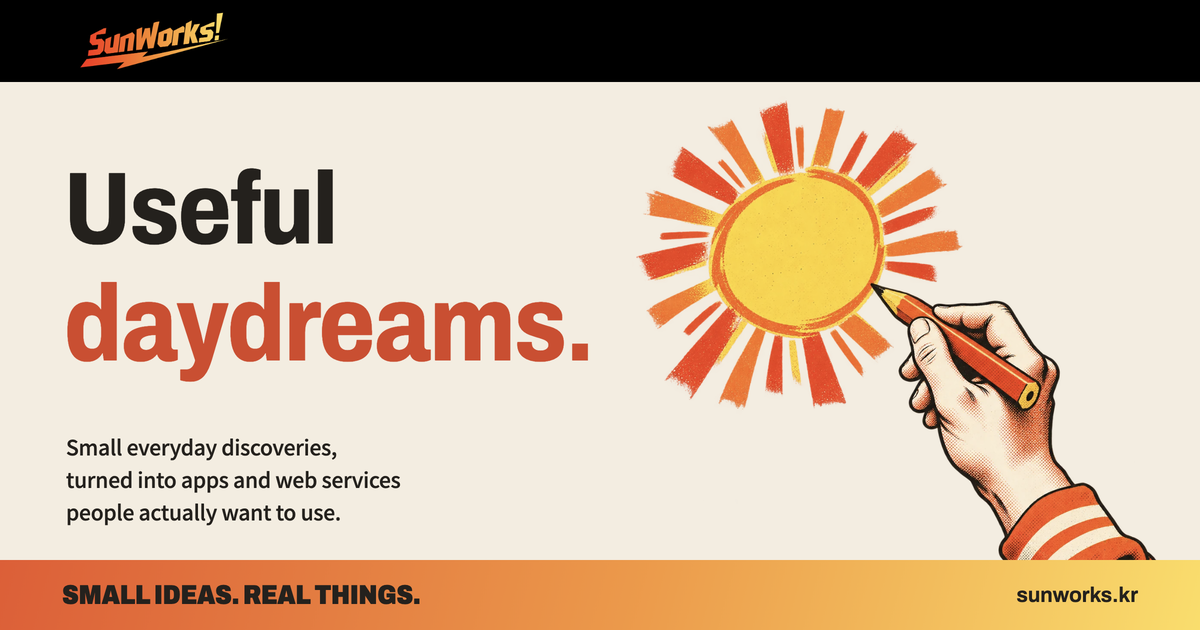
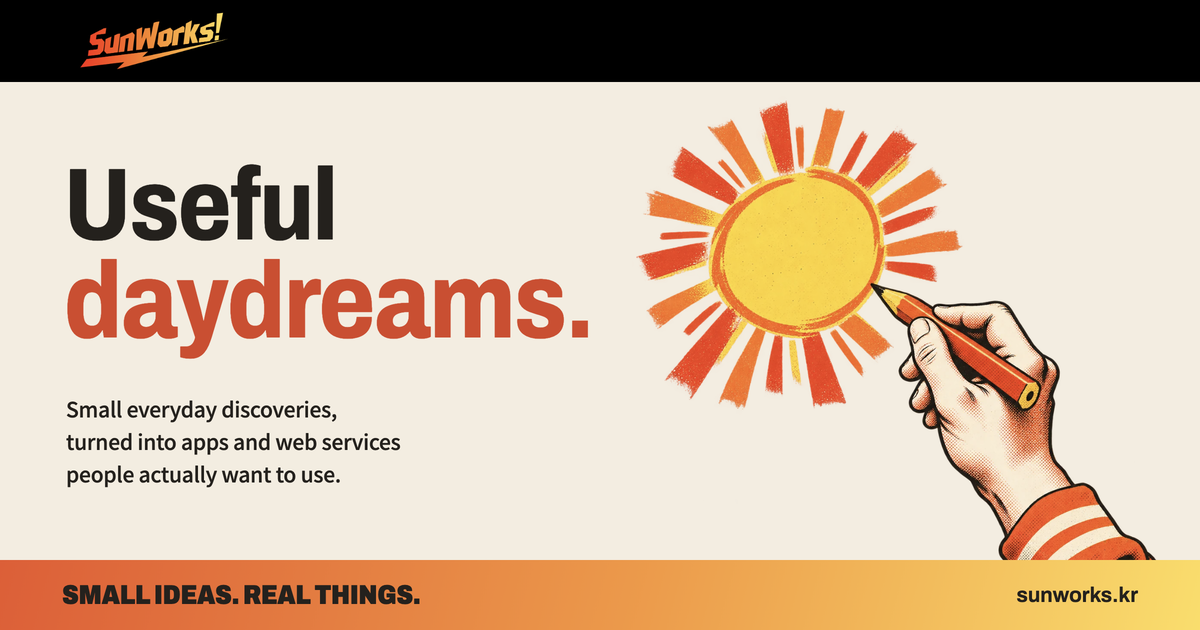
style: tighten line height of display titles
Poster titles read as loose stacks, so display line height drops in both languages.
Korean Gasoek titles go to 1.06-1.26 (from 1.16-1.4); tighter values start to let final consonants touch the next line.
English Archivo titles go to 0.9-1.0 (from 0.98-1.12).
The saved card image and both social cards use the same ratios, and DESIGN.md records the values.

diff --git a/src/styles/global.css b/src/styles/global.css
@@ -257,7 +257,7 @@ section[id] {
   font-weight: var(--display-weight);
   font-stretch: var(--display-stretch);
   letter-spacing: var(--display-tracking);
-  line-height: 1.16;
+  line-height: 1.06;
 }
 .hero h1 span {
   display: block;
@@ -266,7 +266,7 @@ section[id] {
 .hero .hero-punch {
   color: var(--red);
   font-size: 1.32em;
-  line-height: 1.19;
+  line-height: 1.08;
 }
 .hero-intro {
   padding-top: 37px;
@@ -393,7 +393,7 @@ section[id] {
   font-weight: var(--display-weight);
   font-stretch: var(--display-stretch);
   letter-spacing: var(--display-tracking);
-  line-height: 1.35;
+  line-height: 1.2;
 }
 .work-heading > p {
   font-size: 16px;
@@ -624,7 +624,7 @@ section[id] {
   font-weight: var(--display-weight);
   font-stretch: var(--display-stretch);
   letter-spacing: var(--display-tracking);
-  line-height: 1.38;
+  line-height: 1.22;
 }
 .press-copy h2 span {
   color: var(--yellow);
@@ -679,7 +679,7 @@ section[id] {
   font-weight: var(--display-weight);
   font-stretch: var(--display-stretch);
   letter-spacing: var(--display-tracking);
-  line-height: 1.4;
+  line-height: 1.26;
   margin-top: 34px;
 }
 .print-sun {
@@ -855,7 +855,7 @@ section[id] {
   font-weight: var(--display-weight);
   font-stretch: var(--display-stretch);
   letter-spacing: var(--display-tracking);
-  line-height: 1.35;
+  line-height: 1.2;
 }
 .not-found p {
   margin-top: 24px;
@@ -867,18 +867,18 @@ section[id] {
 }
 [lang='en'] .hero h1 {
   font-size: clamp(64px, 7.2vw, 112px);
-  line-height: 0.98;
+  line-height: 0.9;
 }
 [lang='en'] .hero .hero-punch {
   font-size: 1.08em;
-  line-height: 1;
+  line-height: 0.92;
 }
 [lang='en'] .work-heading h2,
 [lang='en'] .press-copy h2 {
-  line-height: 1.05;
+  line-height: 0.95;
 }
 [lang='en'] .print-question {
-  line-height: 1.12;
+  line-height: 1;
 }
 [lang='en'] .hero-intro > p + p,
 [lang='en'] .about-copy p,

diff --git a/src/scripts/idea-press.ts b/src/scripts/idea-press.ts
@@ -64,12 +64,14 @@ if (press) {
       ctx.fillText(`${selected + 1} / ${ideas.length}`, 1000, 106);
       ctx.textAlign = 'left';
       ctx.font = questionFont;
+      // 화면 카드 질문과 같은 행간 비율(한국어 1.26, 영어 1.0)이다.
+      const lineStep = 96 * (lang === 'en' ? 1 : 1.26);
       // Chrome은 font 문자열의 폭 키워드를 무시해서 따로 지정한다.
       if (lang === 'en') ctx.fontStretch = 'semi-condensed';
       // 화면 제목과 같은 자간(0.03em × 96px)을 준다.
       else ctx.letterSpacing = '3px';
       ideas[selected].forEach((line, index) =>
-        ctx.fillText(line, 78, 350 + index * 145, 924),
+        ctx.fillText(line, 78, 350 + index * lineStep, 924),
       );
       ctx.fontStretch = 'normal';
       ctx.letterSpacing = '0px';

diff --git a/docs/DESIGN.md b/docs/DESIGN.md
@@ -174,19 +174,21 @@ components:
 
 YAML 토큰은 design.md 규격상 고정값만 받는다. 그래서 `headline.fontSize` (45px)는 실제 CSS `clamp(32px, 3.05vw, 45px)`의 최댓값이고, `rounded.circle` (9999px)는 실제 CSS `50%`와 같은 정원을 뜻한다.
 
-**자간과 줄바꿈.** 큰 제목의 자간은 Gasoek One (+0.03em), 영어 제목 (-0.015em), 설명 제목 (-0.02em), 그 밖의 굵은 한 줄 문구는 (-0.015em)이다. -0.03em보다 좁히지 않고, Gasoek One은 0 아래로 좁히지 않는다. 카드 저장 이미지도 같은 자간(96px 기준 3px)을 쓴다. 한국어는 단어 가운데에서 줄이 바뀌지 않도록 루트에 `word-break: keep-all`과 `overflow-wrap: break-word`를 둔다. 문구의 강제 줄바꿈 앞에는 공백을 넣어, 줄바꿈을 숨기는 좁은 화면에서도 띄어쓰기가 남게 한다.
+**자간과 줄바꿈.** 큰 제목의 자간은 Gasoek One (+0.03em), 영어 제목 (-0.015em), 설명 제목 (-0.02em), 그 밖의 굵은 한 줄 문구는 (-0.015em)이다. -0.03em보다 좁히지 않고, Gasoek One은 0 아래로 좁히지 않는다. 카드 저장 이미지도 같은 자간(96px 기준 3px)을 쓴다.
+
+**제목 행간.** 디스플레이 제목은 포스터처럼 촘촘하게 쌓는다. 한국어는 1.06~1.26, 영어는 0.9~1.0이다(아래 표). 한국어는 이보다 줄이면 받침이 다음 줄에 닿기 시작하므로 더 좁히지 않는다. 한국어는 단어 가운데에서 줄이 바뀌지 않도록 루트에 `word-break: keep-all`과 `overflow-wrap: break-word`를 둔다. 문구의 강제 줄바꿈 앞에는 공백을 넣어, 줄바꿈을 숨기는 좁은 화면에서도 띄어쓰기가 남게 한다.
 
 ### 위계와 큰 활자의 예외
 
-| 역할                    | 실제 크기·행간                                                         | 적용                                      |
-| ----------------------- | ---------------------------------------------------------------------- | ----------------------------------------- |
-| 첫 포스터               | `clamp(78px, 8.7vw, 132px)` / 1.16                                     | “쓸모 있는”. “딴생각.”은 1.32배 / 1.19    |
-| 영어 첫 포스터          | `clamp(64px, 7.2vw, 112px)` / 0.98                                     | “Useful”. “daydreams.”는 1.08배 / 1       |
-| 한글 설명 제목          | 앞의 `headline` 토큰                                                   | 소개·제작 기준·마무리 제목                |
-| 제품/인쇄소 포스터 제목 | `clamp(42px, 4.65vw, 68px)` / 1.35, `clamp(45px, 4.65vw, 69px)` / 1.38 | 디스플레이 글꼴. 영어는 행간 1.05         |
-| 영문 포스터             | `clamp(52px, 6vw, 87px)` / 0.98                                        | 제작 기준 옆 장식 문구                    |
-| 인쇄 카드 질문          | `clamp(32px, 3.45vw, 49px)` / 1.4                                      | 카드 내부의 세 줄 질문. 영어는 행간 1.12  |
-| 보조 정보               | 주로 12–14px                                                           | 제품 상태·메모·내비게이션. 본문 대체 금지 |
+| 역할                    | 실제 크기·행간                                                        | 적용                                      |
+| ----------------------- | --------------------------------------------------------------------- | ----------------------------------------- |
+| 첫 포스터               | `clamp(78px, 8.7vw, 132px)` / 1.06                                    | “쓸모 있는”. “딴생각.”은 1.32배 / 1.08    |
+| 영어 첫 포스터          | `clamp(64px, 7.2vw, 112px)` / 0.9                                     | “Useful”. “daydreams.”는 1.08배 / 0.92    |
+| 한글 설명 제목          | 앞의 `headline` 토큰                                                  | 소개·제작 기준·마무리 제목                |
+| 제품/인쇄소 포스터 제목 | `clamp(42px, 4.65vw, 68px)` / 1.2, `clamp(45px, 4.65vw, 69px)` / 1.22 | 디스플레이 글꼴. 영어는 행간 0.95         |
+| 영문 포스터             | `clamp(52px, 6vw, 87px)` / 0.98                                       | 제작 기준 옆 장식 문구                    |
+| 인쇄 카드 질문          | `clamp(32px, 3.45vw, 49px)` / 1.26                                    | 카드 내부의 세 줄 질문. 영어는 행간 1     |
+| 보조 정보               | 주로 12–14px                                                          | 제품 상태·메모·내비게이션. 본문 대체 금지 |
 
 첫 포스터는 일반 UI의 6rem 범위를 넘는 의도적인 작품 영역이다. (1600px) 이상에서는 기본 글자가 (136px), (1100px) 이하에서는 (8.5vw), (760px) 이하에서는 `clamp(61px, 15.8vw, 105px)`가 된다. 모바일 강조 단어는 (1.24배), (360px) 이하 기본 글자는 (15.8vw)다. 영어 첫 포스터는 “daydreams.”가 한 줄에 들어가도록 (1600px) 이상 (116px), (1100px) 이하 (7vw), (760px) 이하 `clamp(46px, 13vw, 84px)`와 강조 1배, (360px) 이하 (13vw)를 쓴다. 좁은 화면에서 활자만 줄이지 않고 그림과 설명의 배치도 함께 바꾼다.
 
@@ -272,7 +274,7 @@ YAML 토큰은 design.md 규격상 고정값만 받는다. 그래서 `headline.f
 - **다음 딴생각:** 새 질문을 즉시 반영하고, 기존 동작을 취소한 뒤 위 (12px)·회전 (-0.8도)·불투명도 (0.7)에서 제자리로 한 번 인쇄한다. 길이 (420ms), 곡선 `cubic-bezier(0.16, 1, 0.3, 1)`. 자동 재생·상시 루프는 없다.
 - **모션 감소:** 인쇄 동작을 건너뛰고 내용은 즉시 바뀐다. 설정이 켜지는 도중에도 진행 중 애니메이션을 취소한다.
 - **JavaScript 없음:** 첫 질문과 설명은 보이며 조작 버튼은 숨겨진다. 스크립트 초기화 후에만 버튼이 나타난다.
-- **카드 저장:** 누른 시점의 선택을 고정하고 글꼴을 준비한 뒤 (1080 × 1350px) PNG로 내보낸다. 질문 활자는 한국어 Gasoek One (96px, 자간 3px), 영어 Archivo (750, semi-condensed)다. 캔버스는 폭을 키워드로만 받으므로 화면의 (85%)와 가장 가까운 semi-condensed (87.5%)를 쓴다. 파일명은 `sunworks-daydream-N.png`다. 저장 도중 다음 질문을 눌러도 저장 대상은 바뀌지 않는다.
+- **카드 저장:** 누른 시점의 선택을 고정하고 글꼴을 준비한 뒤 (1080 × 1350px) PNG로 내보낸다. 질문 활자는 한국어 Gasoek One (96px, 자간 3px, 줄 간격 1.26배), 영어 Archivo (750, semi-condensed, 줄 간격 1배)다. 캔버스는 폭을 키워드로만 받으므로 화면의 (85%)와 가장 가까운 semi-condensed (87.5%)를 쓴다. 파일명은 `sunworks-daydream-N.png`다. 저장 도중 다음 질문을 눌러도 저장 대상은 바뀌지 않는다.
 - **상태·실패:** `role="status"`로 “카드에 잉크를 올리는 중…”, “카드를 준비했어요. 다운로드 목록에서 확인해 주세요.”를 안내한다. 실패 시 “카드를 저장하지 못했어요. 잠시 후 다시 눌러주세요.”를 표시하고 버튼과 busy 상태를 복구한다. 브라우저의 실제 다운로드 완료까지 단정하지 않는다.
 
 **The Finite Print Rule.** 사용자가 누른 한 번의 인쇄만 움직이고 멈춘다. 반복 클릭·모션 감소·저장 실패에서도 읽기와 다음 조작을 보존한다.
